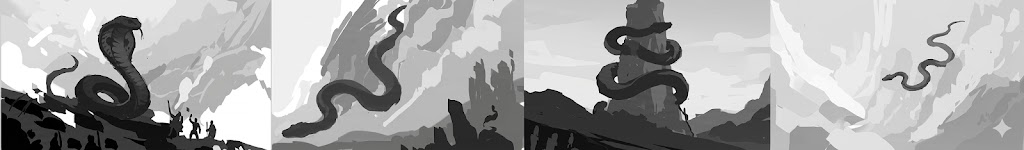
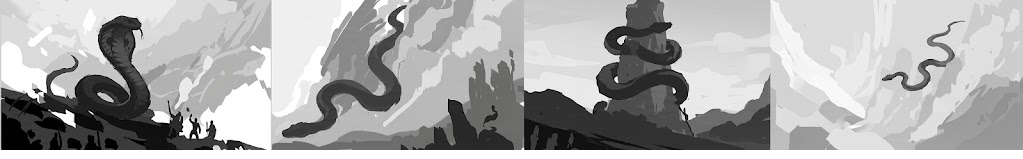
Add centipede studies PNG and crop snake studies whitespace

diff --git a/index.html b/index.html
@@ -741,6 +741,11 @@
                 <div class="personal-grid-item item-ken">
                   <img loading="lazy" src="assets/personal_projects_2.png" alt="Kraken Studies Sketch" class="personal-grid-img">
                 </div>
+                
+                <!-- Item 6: Sketch 5 (Centipede Studies) -->
+                <div class="personal-grid-item item-centipede">
+                  <img loading="lazy" src="assets/personal_projects_6.png" alt="Centipede Studies Sketch" class="personal-grid-img">
+                </div>
               </div>
               
               <!-- Right Column: Title & Leviathan & Creature & Ziz Studies -->